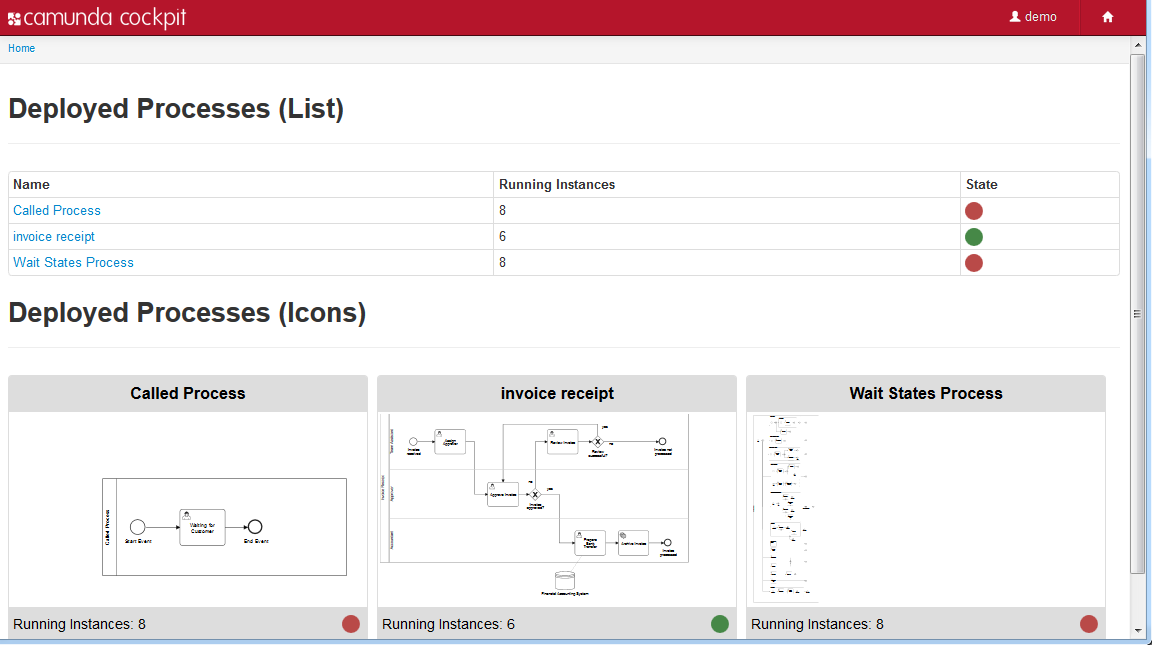
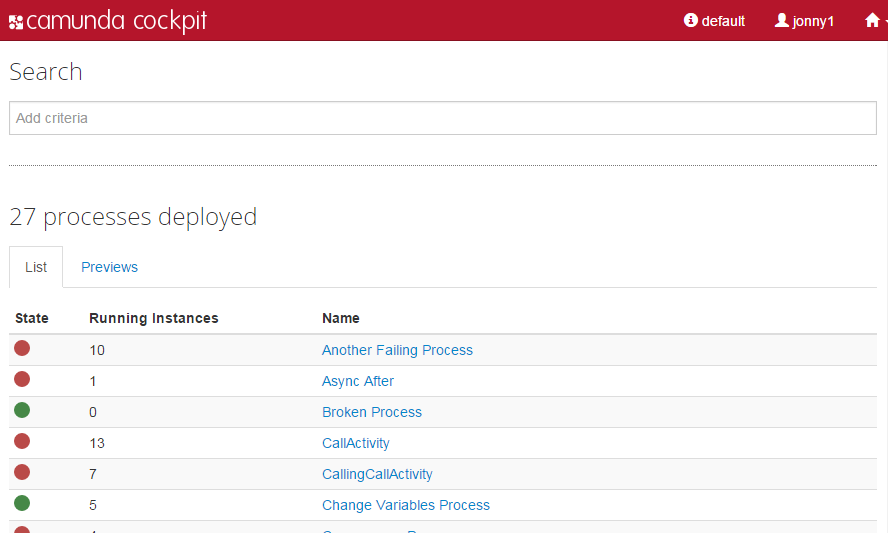
feat(user guide/cockpit): add search
fix(user guide/cockpit): update dashboard screenshot and description
fix(user guide/tasklist): update and extend search

related to CAM-3848, CAM-3969

diff --git a/site/src/documents/guides/user-guide/chapters/12-cockpit/20-dashboard.html.md b/site/src/documents/guides/user-guide/chapters/12-cockpit/20-dashboard.html.md
@@ -5,27 +5,25 @@ category: 'Cockpit'
 
 ---
 
-On the dashboard of Cockpit you get an overview of the installed plugins - you will see at least two pre-installed plugins. Additionally installed plugins will automatically be added below the existing ones.
+The dashboard of Cockpit is your entry point for process monitoring. It comes with a pre-installed plugin, which lets you see deployed process defintions. Additional plugins can be added to the dashboard.
 
-## Deployed Processes (List)
+## Deployed Processes
 
 <div class="row">
   <div class="col-xs-6 col-sm-6 col-md-3">
     <img data-img-thumb src="ref:asset:/assets/img/implementation-cockpit/cockpit-process-definition-state.png" />
   </div>
   <div class="col-xs-6 col-sm-6 col-md-9">
-    With this plugin you can easily observe the state of a processes definition. Green and red dots signalize running and <a href="ref:#cockpit-failed-jobs">failed jobs</a>. At this observing level a red dot signifies that there is at least one process instance or a sub process instance which has an unresolved incident. You can localize the problem by using the <a href="ref:#cockpit-process-definition-view">Process Definition View</a>.
+    <p>With this plugin you can easily observe the state of a processes definition. Green and red dots signalize running and <a href="ref:#cockpit-failed-jobs">failed jobs</a>. At this observing level a red dot signifies that there is at least one process instance or a sub process instance which has an unresolved incident. You can localize the problem by using the <a href="ref:#cockpit-process-definition-view">Process Definition View</a>.</p>
+
   </div>
 </div>
-
-## Deployed Processes (Icons)
-
 <div class="row">
   <div class="col-xs-6 col-sm-6 col-md-3">
     <img data-img-thumb src="ref:asset:/assets/img/implementation-cockpit/cockpit-deployed-processes.png" />
   </div>
   <div class="col-xs-6 col-sm-6 col-md-9">
-    This plugin gives you an overview of all deployed processes on the engine and displays them as rendered process models. Additionally, you get information about how many instances of the process are currently running and about the process state. Green and red dots signalize running and <a href="ref:#cockpit-failed-jobs">failed jobs</a>. Click on the model to get to the <a href="ref:#cockpit-process-definition-view">Process Definition View</a>.
+    <p>You can also switch to the preview tab which includes the rendered process model of each deployed process. Additionally, you get information about how many instances of the process are currently running and about the process state. Green and red dots signalize running and <a href="ref:#cockpit-failed-jobs">failed jobs</a>. Click on the model to get to the <a href="ref:#cockpit-process-definition-view">Process Definition View</a>.</p>
   </div>
 </div>
 
@@ -37,5 +35,30 @@ On the dashboard of Cockpit you get an overview of the installed plugins - you w
   </div>
   <div class="col-xs-6 col-sm-6 col-md-9">
     If you are working with more than one engine you can select the desired engine via a dropdown selection. Cockpit provides all information of the selected engine.
+  </div>
+</div>
+
+## Search
+
+<div class="alert alert-warning">
+  <p><strong>Enterprise Feature</strong></p>
+  Please note that this feature is only included in the enterprise edition of the camunda BPM platform, it is not available in the community edition.
+  <p style="margin-top:10px">Check the <a href="http://camunda.com/bpm/enterprise/ ">camunda enterprise homepage</a> for more information or get your <a href="http://camunda.com/bpm/enterprise/trial/">free trial version.</a></p>
+</div>
+
+<div class="row">
+  <div class="col-xs-6 col-sm-6 col-md-3">
+    <img data-img-thumb src="ref:asset:/assets/img/implementation-cockpit/cockpit-search.png" />
+  </div>
+  <div class="col-xs-6 col-sm-6 col-md-9">
+    <p>
+      At the top of the dashboard page, you can search for process instances and incidents which fulfill certain search criteria. To do so, click in the search box and select the parameters to search for. You can also begin typing to find the required parameter faster. Depending on the selected property, you have to specify the value of the property. Some properties also allow operators other than equal, e.g. 'like', which allows to search for process instances where the entered value is a substring of the property value. If you are searching for process variables, you also have to enter the variable name you want to search for.
+    </p>
+    <p>
+      If you are searching for a variable of type string, which has a numeric, boolean or null value, you have to wrap the value in single quotes (e.g. <code>'93288'</code> or <code>'NULL'</code>).
+    </p>
+    <p>
+      You can always either search for process instances or for incidents. When you add a parameter for an incidents search, you can not add a second parameter which would search for a process instance and vice versa.
+    </p>
   </div>
 </div>

diff --git a/site/src/documents/guides/user-guide/chapters/11-tasklist/03-dashboard.html.md b/site/src/documents/guides/user-guide/chapters/11-tasklist/03-dashboard.html.md
@@ -58,7 +58,7 @@ category: 'Tasklist'
   </div>
 </div>
 
-### Search for Tasks by variable
+### Search for Tasks
 
 <div class="row">
   <div class="col-xs-6 col-sm-6 col-md-3">
@@ -66,22 +66,10 @@ category: 'Tasklist'
   </div>
   <div class="col-xs-6 col-sm-6 col-md-9">
     <p>
-      Above the filter results, you have the option of searching for user tasks by variable within the selected filter results. To do so, click in the search box and select which variables to search for, either a Process Variable, a Task Variable or a Case Variable. Next you need to insert both a Property and a Value for the variable. By default the operator is <i>equal to</i> (=). You can toggle the operator and select <i>not equal to</i> (!=), <i>greater than</i> (>), <i>lower than</i> (<), <i>equal to or greater than</i> (>=) or <i>equal to or lower than</i> (<=). Depending on the data type of your search, the operators can vary slightly. If you change the filter selection, the search will be performed on the selected filter and the results will be updated accordingly.
+      Above the filter results, you have the option of searching for user tasks within the selected filter results. To do so, click in the search box and select the parameters to search for. You can also begin typing to find the required parameter faster. Depending on the selected property, you have to specify the value of the property. Some properties also allow operators other than equal, e.g. 'like', which allows to search for a task where the entered value is a substring of the property value. If you are searching for variables, you also have to enter the variable name you want to search for. If the filter you have selected has defined labels for variables, you can select the label of the variable as variable name. Otherwise (if there is no label definition for a variable), you have to enter the variable name to search for it. If you change the filter selection, the search will be performed on the selected filter and the results will be updated accordingly.
     </p>
     <p>
-      If the searched variable is of String type, values:
-      <ul>
-        <li>`true` and `false`</li>
-        <li>numbers (like `73288`)</li>
-        <li>NULL</li>
-      </ul>
-      need to be wrapped into quotes as follow:
-      <ul>
-        <li>`'true'` and `'false'`</li>
-        <li>`'73288'`</li>
-        <li>`'NULL'`</li>
-      </ul>
-      in order to get the expected results.
+      If you are searching for a variable of type string, which has a numeric, boolean or null value, you have to wrap the value in single quotes (e.g. <code>'93288'</code> or <code>'NULL'</code>).
     </p>
   </div>
 </div>
